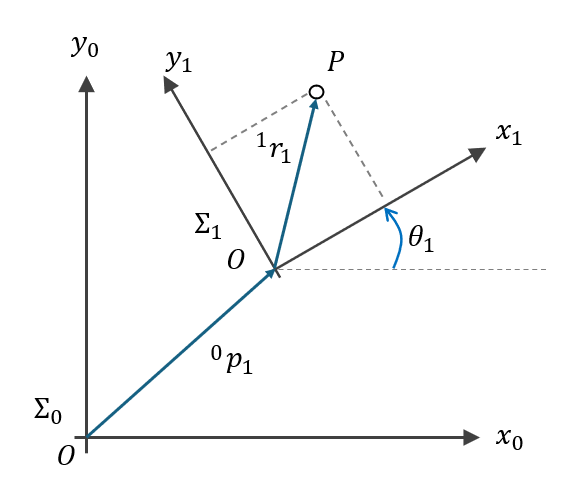
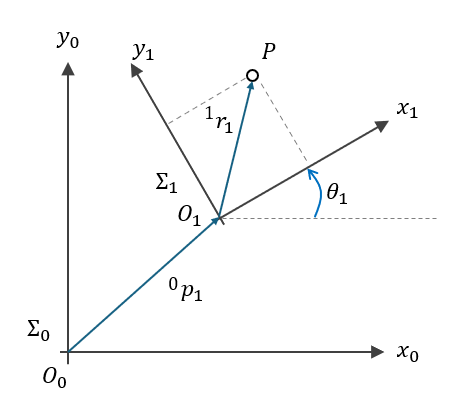
原点の識別

diff --git a/ABA/Basic/ReadMe.md b/ABA/Basic/ReadMe.md
@@ -1,0 +1,1 @@
+![alt text](image.png)![alt text](image.png)
